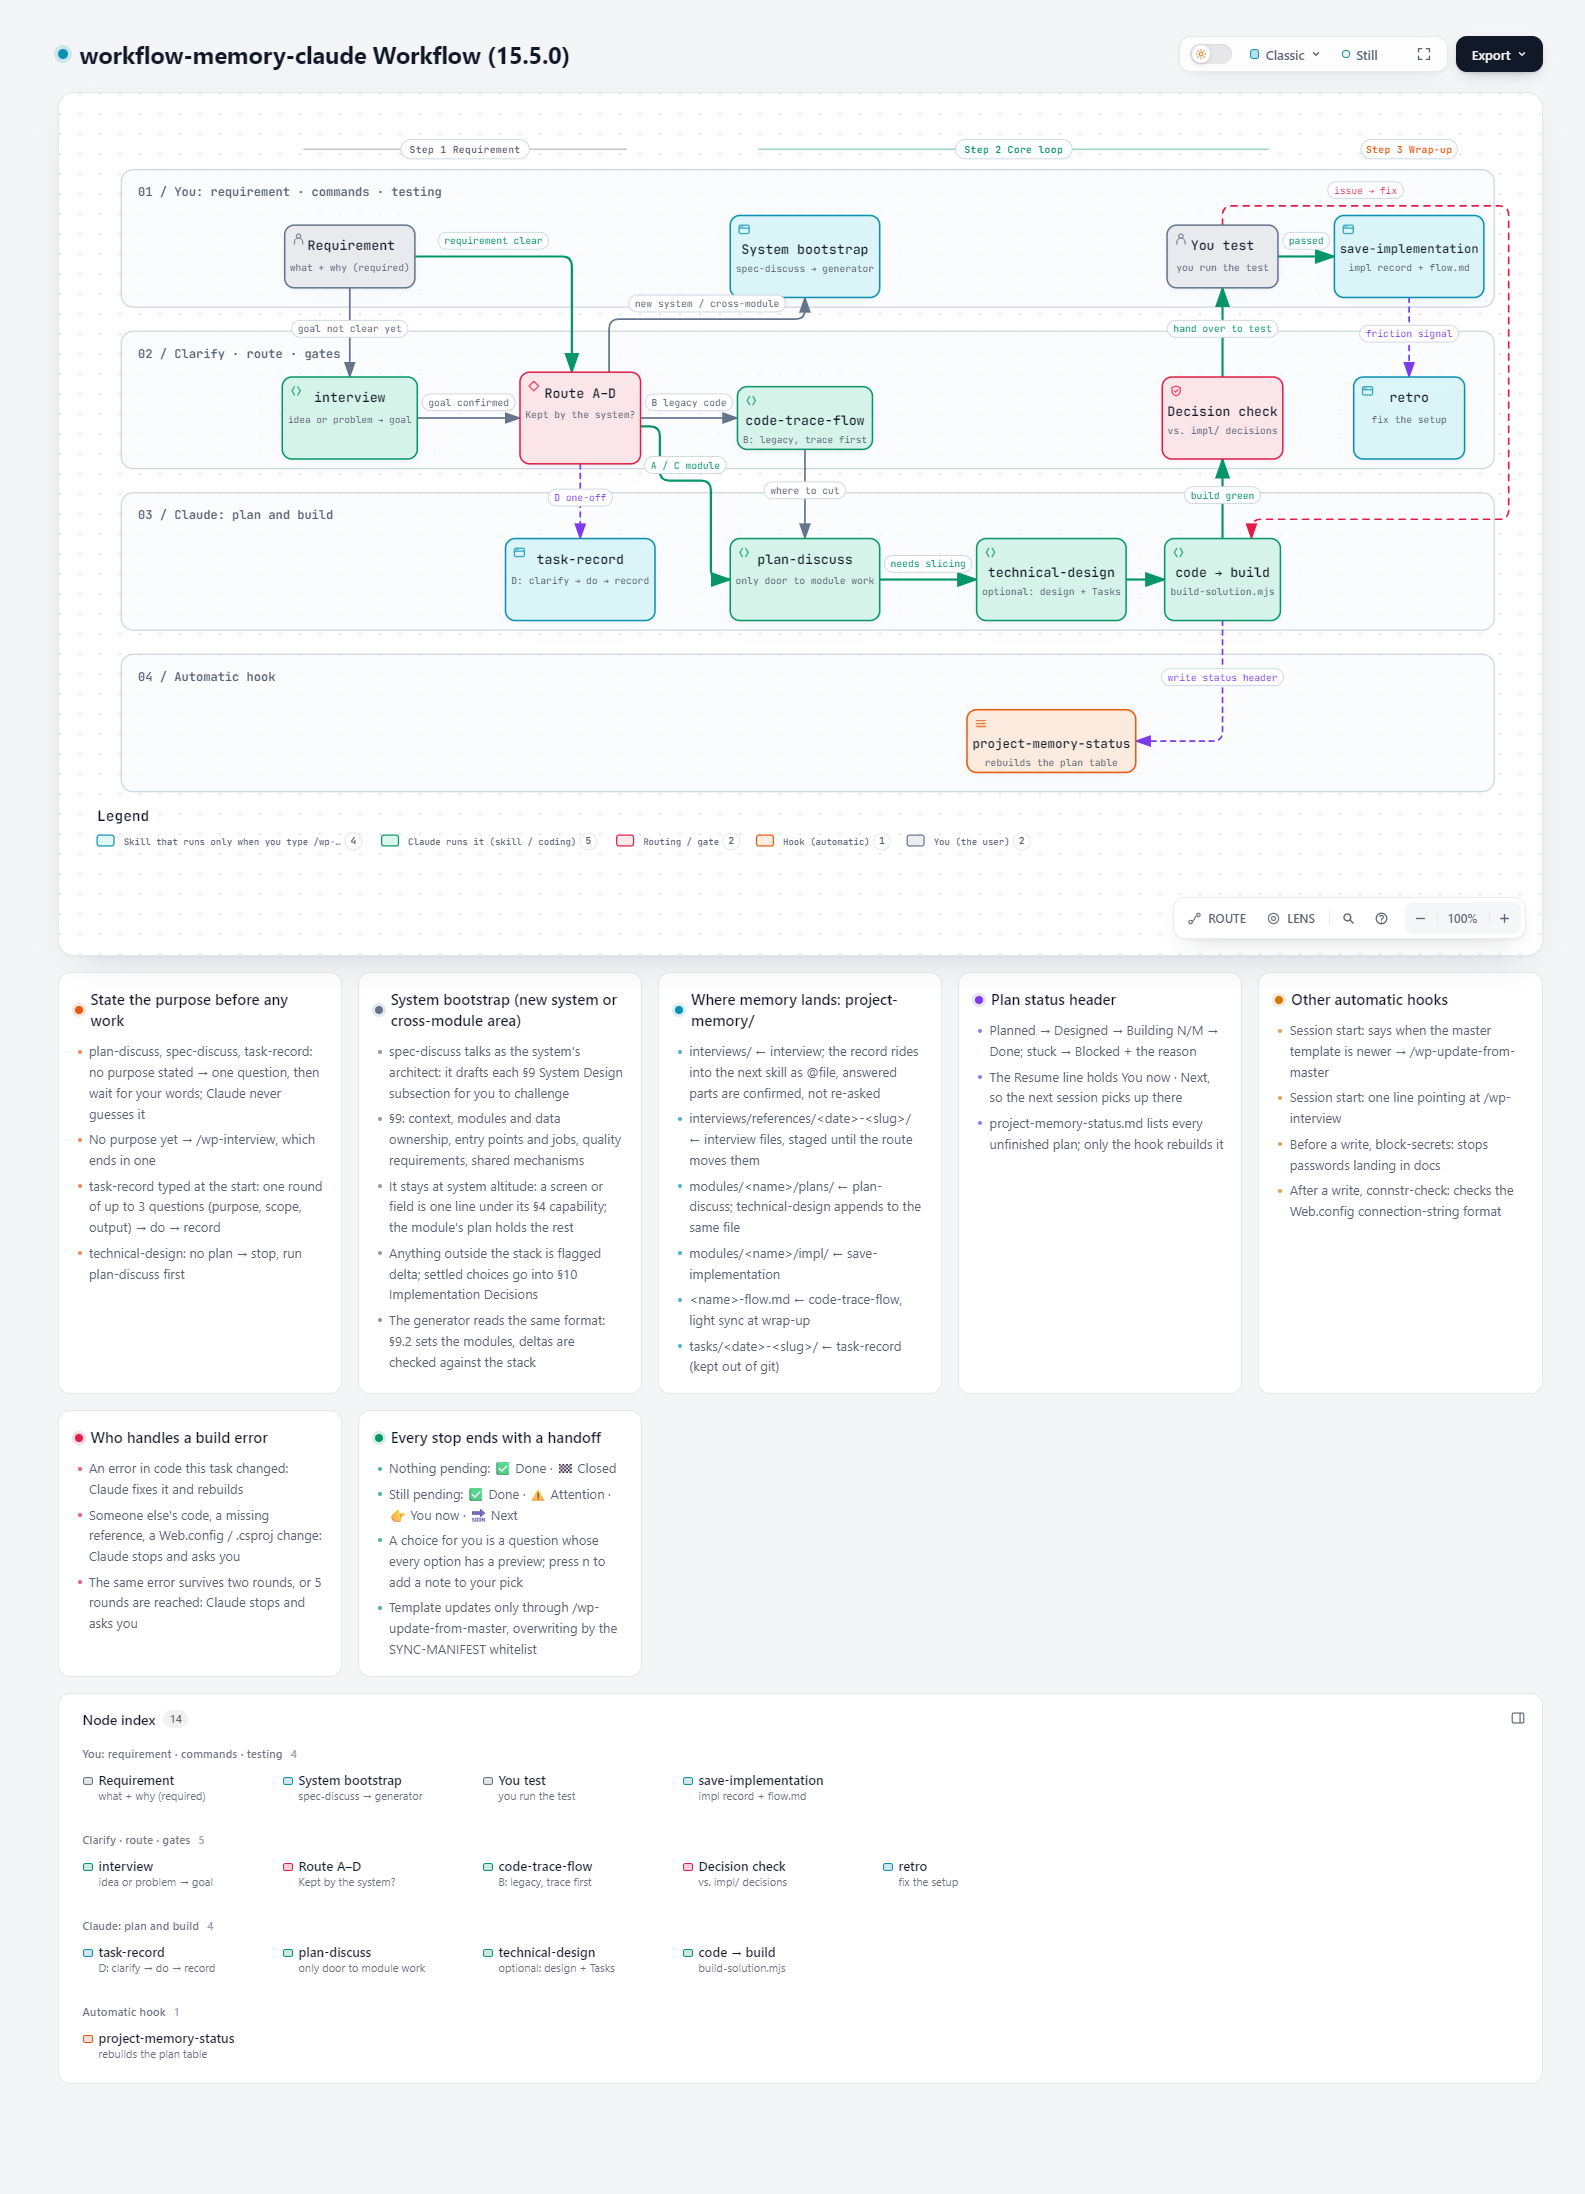
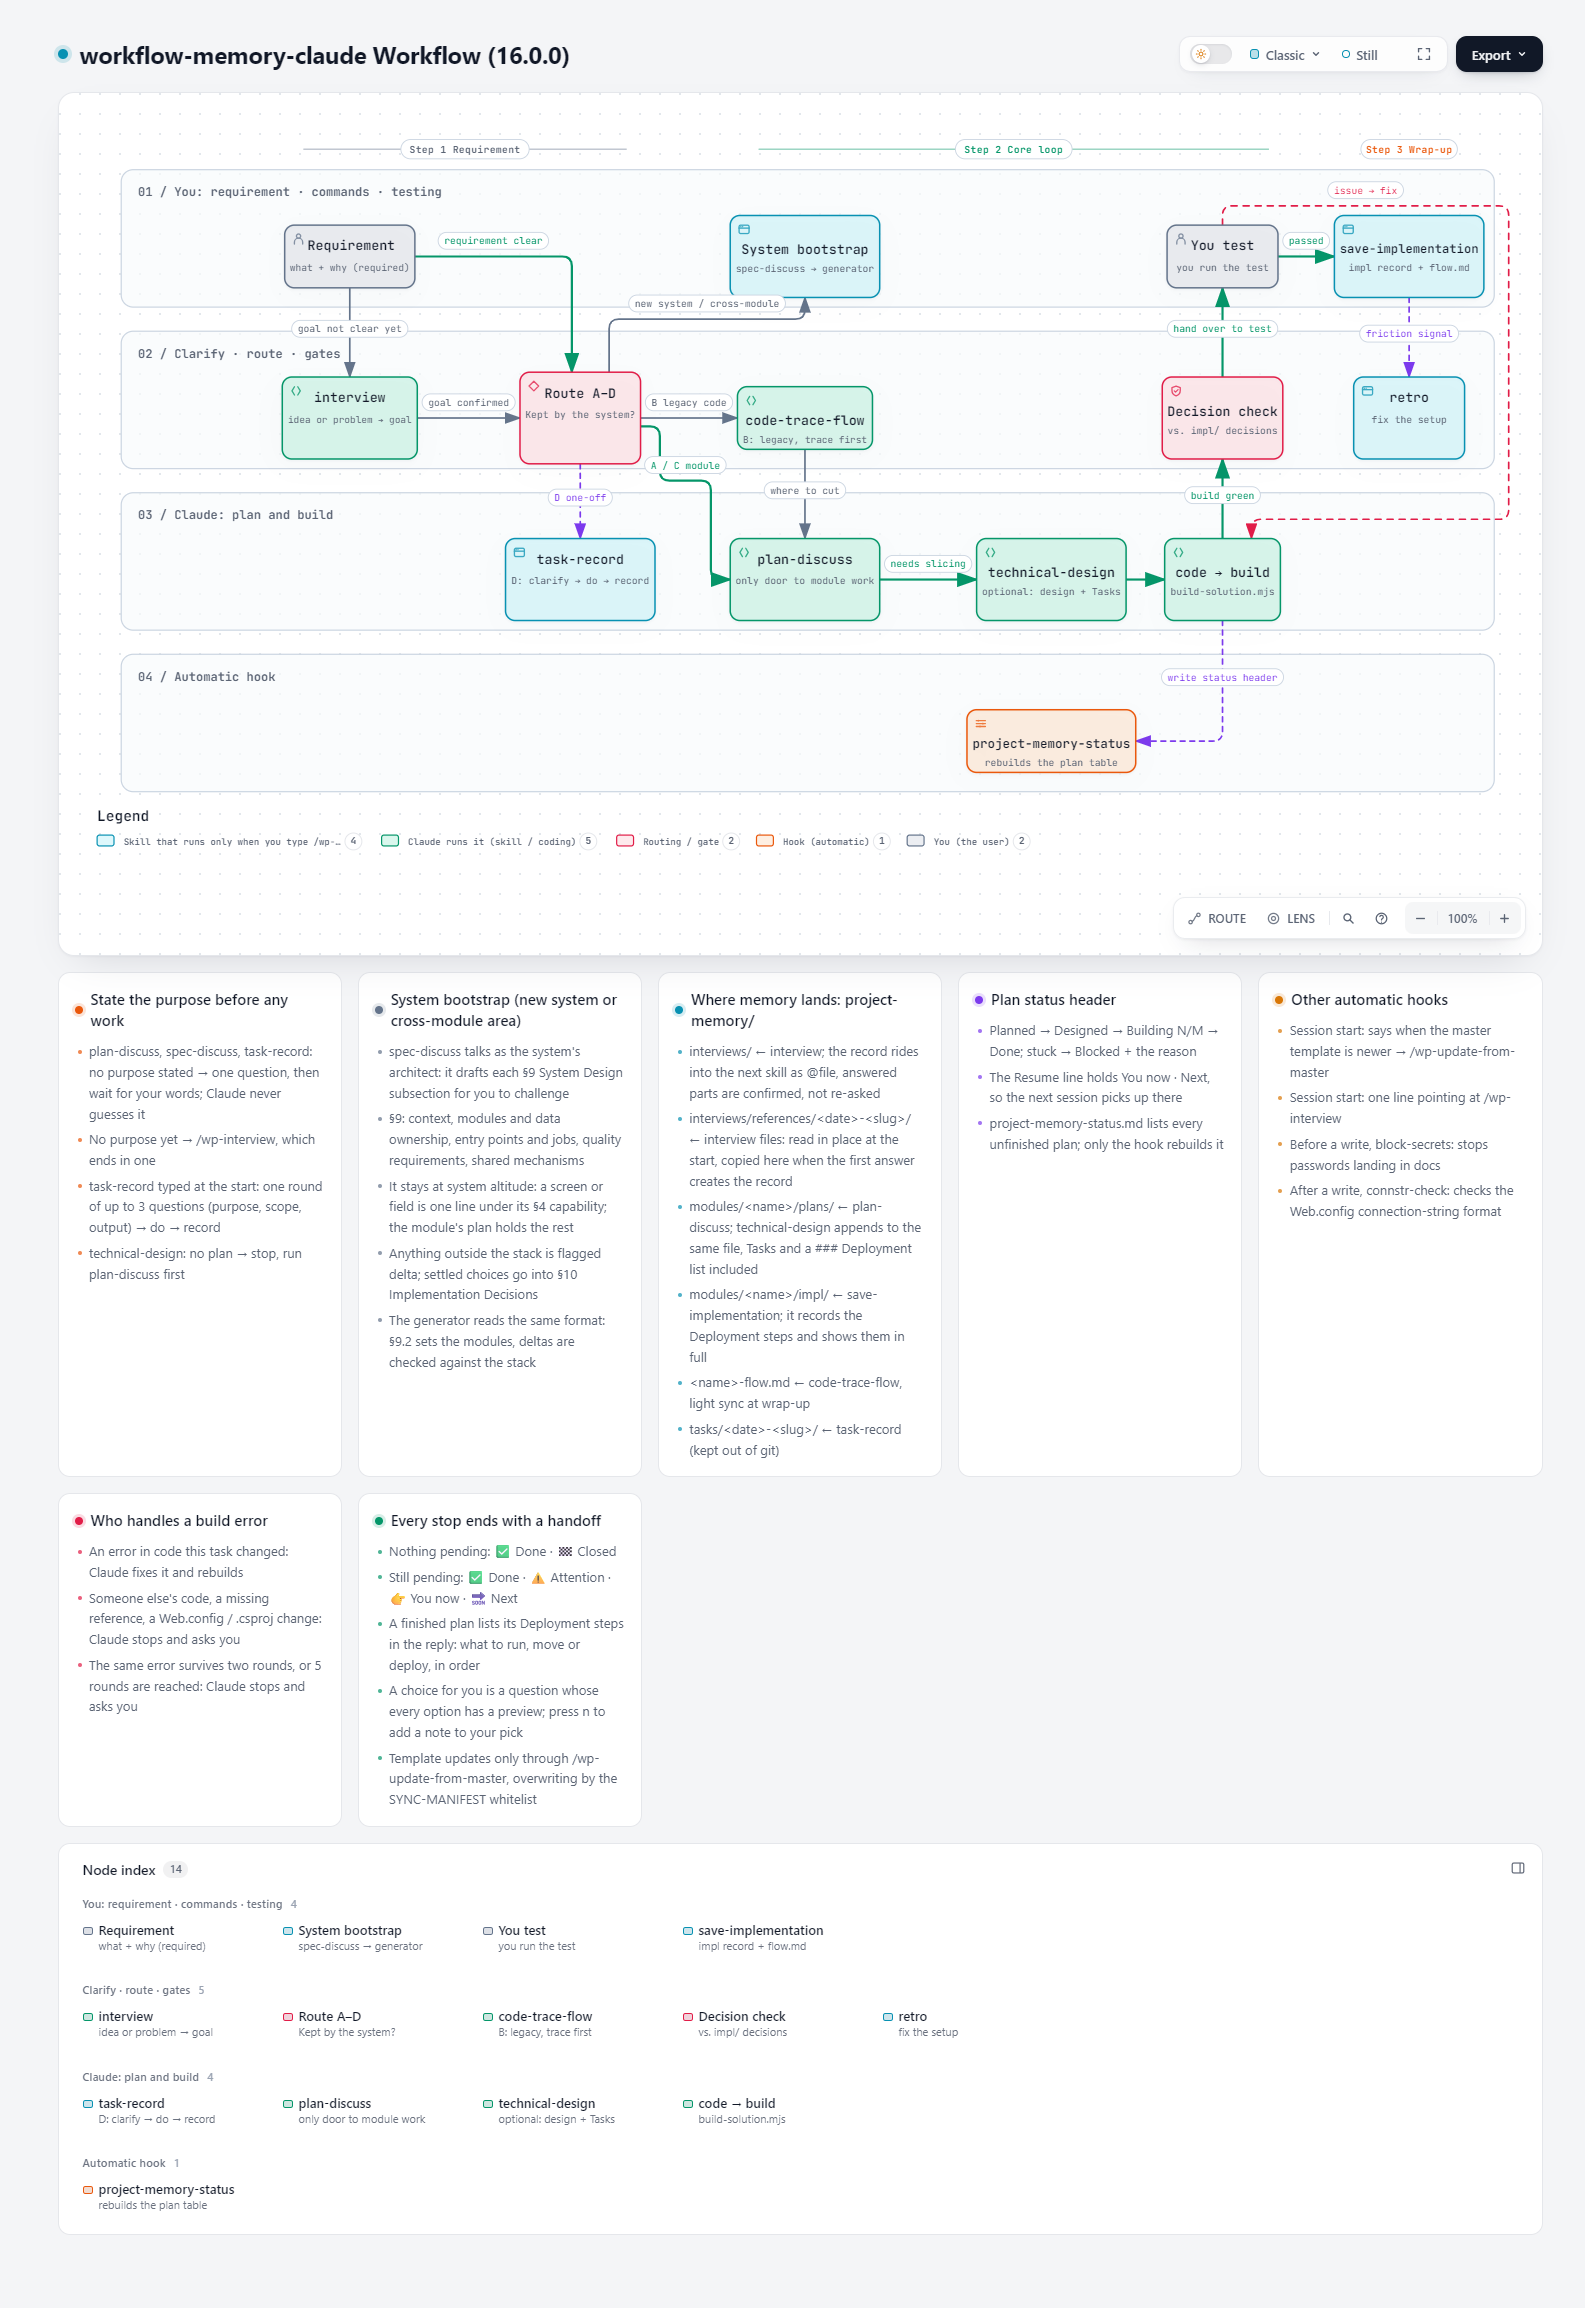
template docs: refresh the workflow diagram PNG to 16.0.0
Claude-Session: https://claude.ai/code/session_01S4f86afzMdirPYDW1diyY7

diff --git a/README.md b/README.md
@@ -19,10 +19,10 @@ you work; everything else is reusable as-is.
 
 ## Workflow at a glance
 
-![workflow-memory-claude workflow, template 15.5.0](assets/workflow-diagram.png)
+![workflow-memory-claude workflow, template 16.0.0](assets/workflow-diagram.png)
 
 The three steps of `.claude/rules/workspace-workflow.md` as one picture: how a requirement comes in,
-the build loop, the wrap-up. The PNG shows template 15.5.0 and lives in this repo only — it is not
+the build loop, the wrap-up. The PNG shows template 16.0.0 and lives in this repo only — it is not
 part of the sync whitelist, so projects never receive it.
 
 ## Layout
